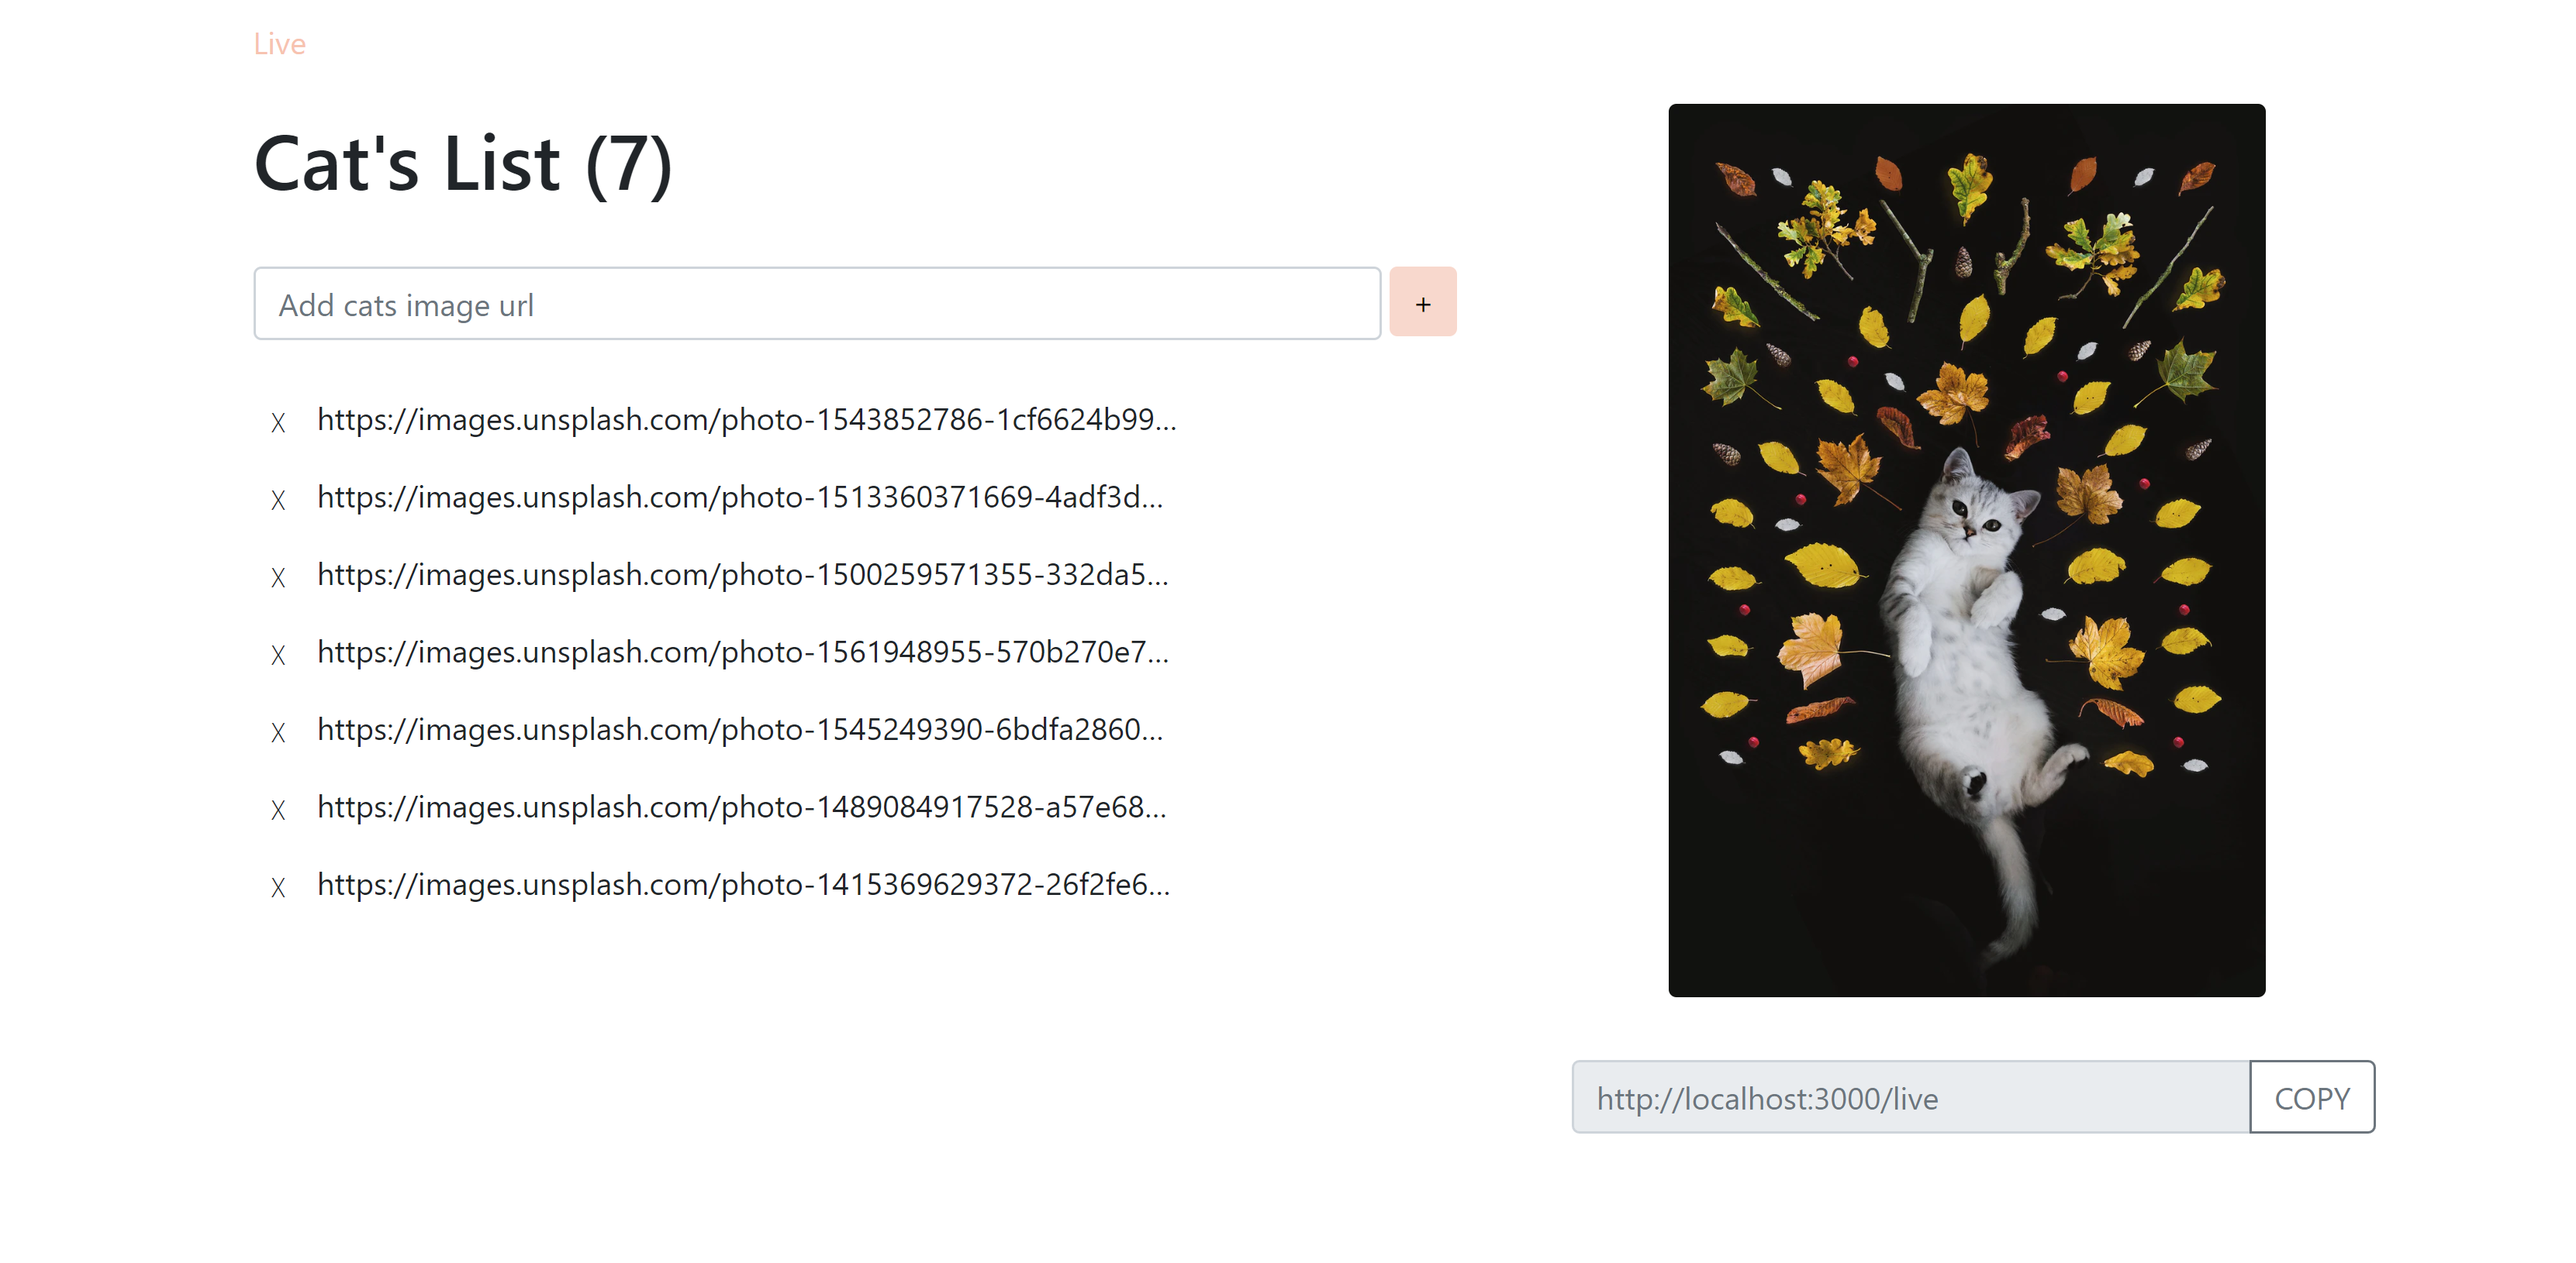
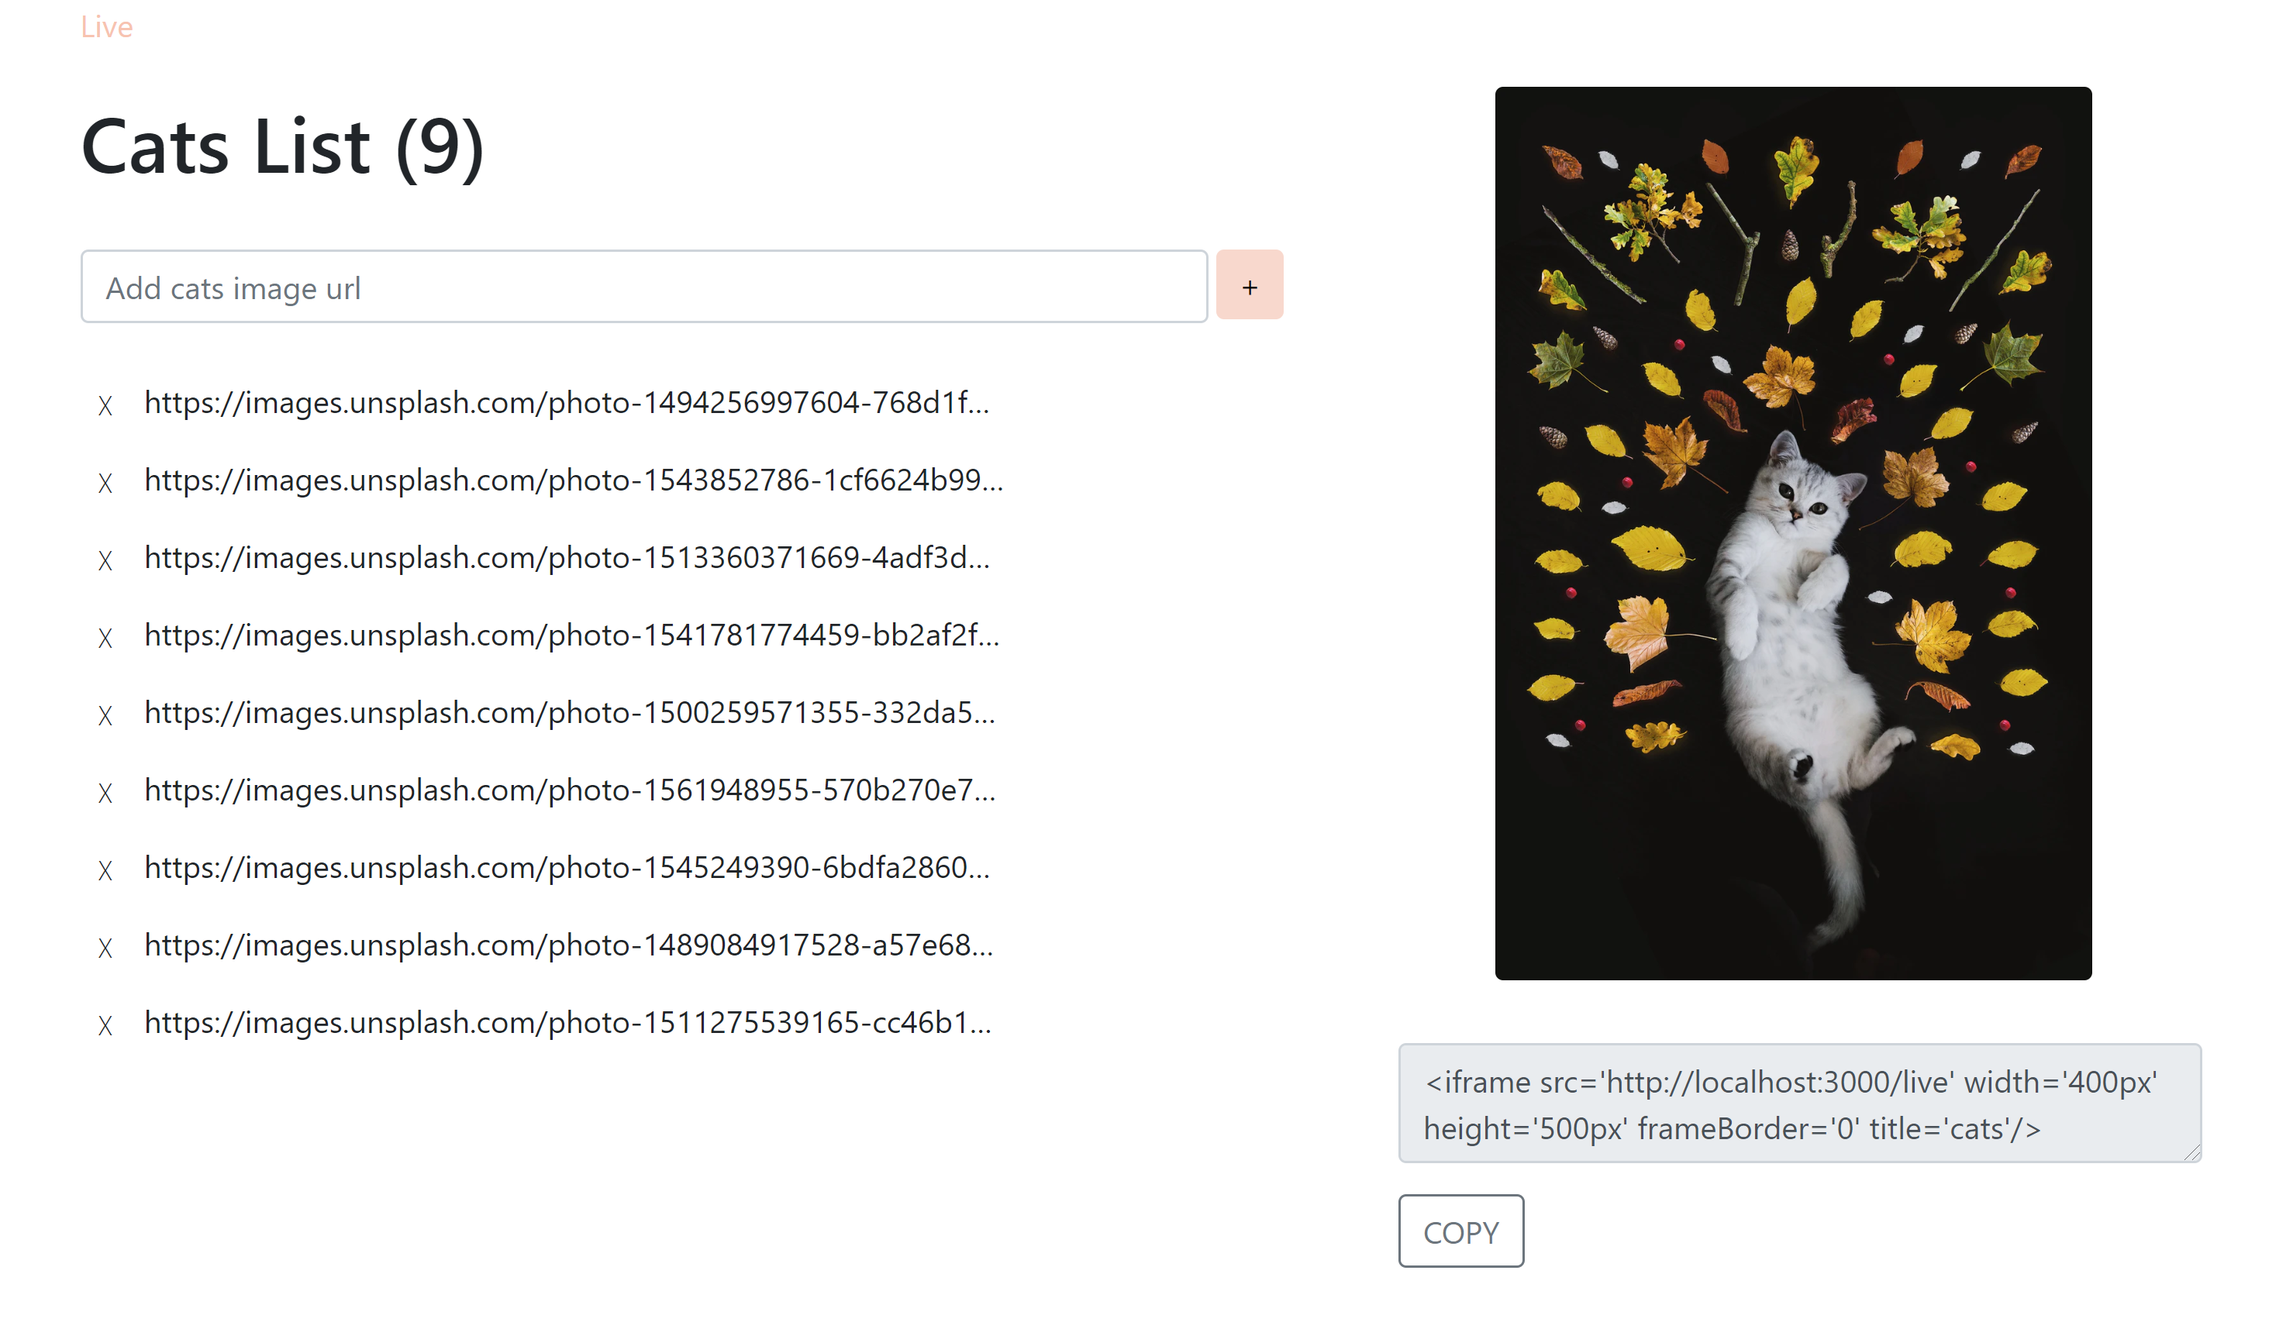
CR: Change cats title

diff --git a/src/components/Admin/Admin.js b/src/components/Admin/Admin.js
@@ -66,7 +66,7 @@ export default function Admin() {
 
       <Row>
         <Col className='col-md-7 col-sm-10'>
-          <h1 className='pt-4 pb-4'>{`Cat's List (${
+          <h1 className='pt-4 pb-4'>{`Cats List (${
             display === Display.LIST && linksList ? linksList.length : 0
           })`}</h1>
           <Row className='mr-0 ml-0 pb-4'>
